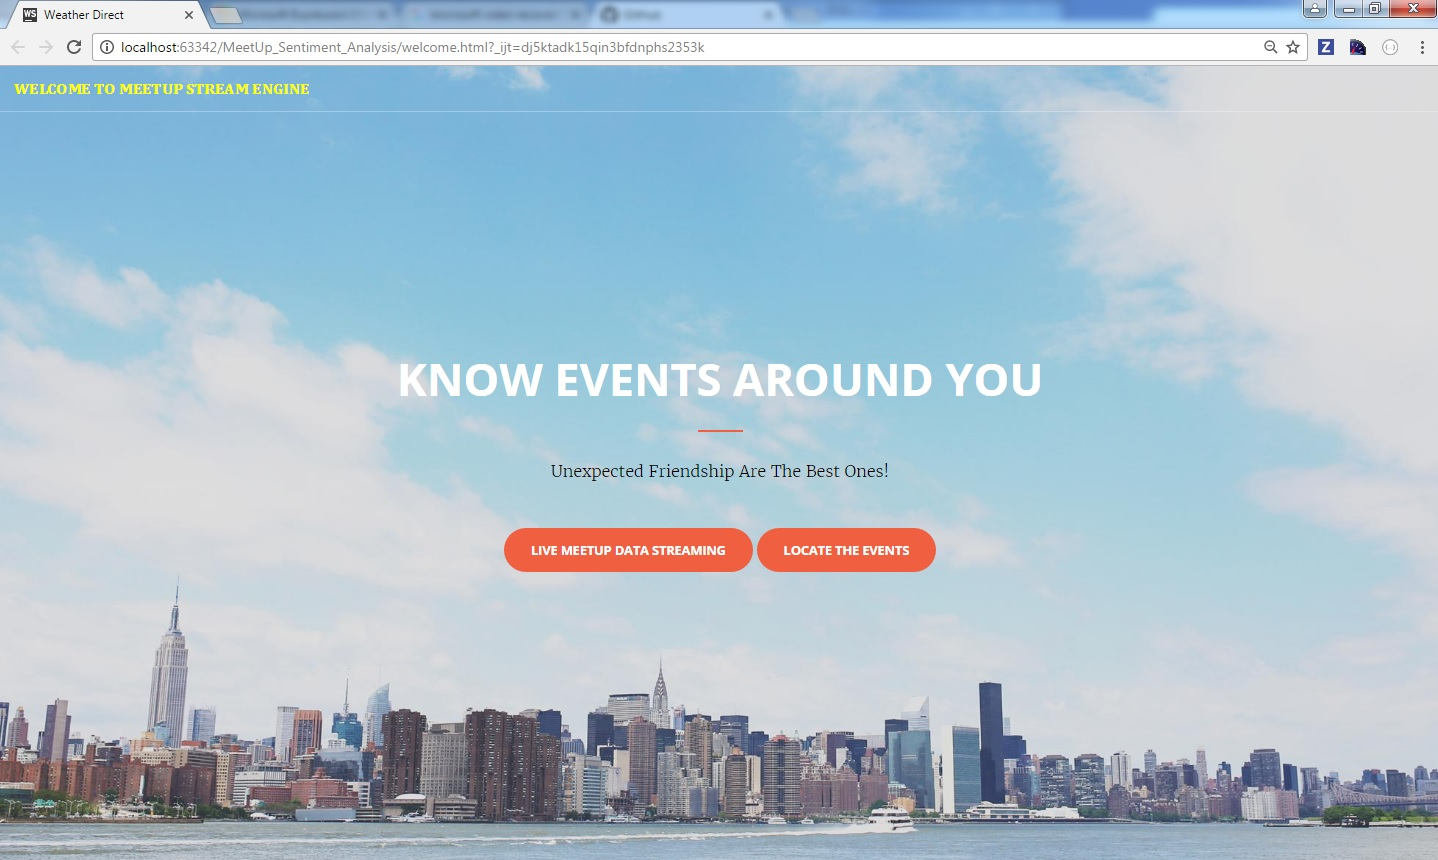
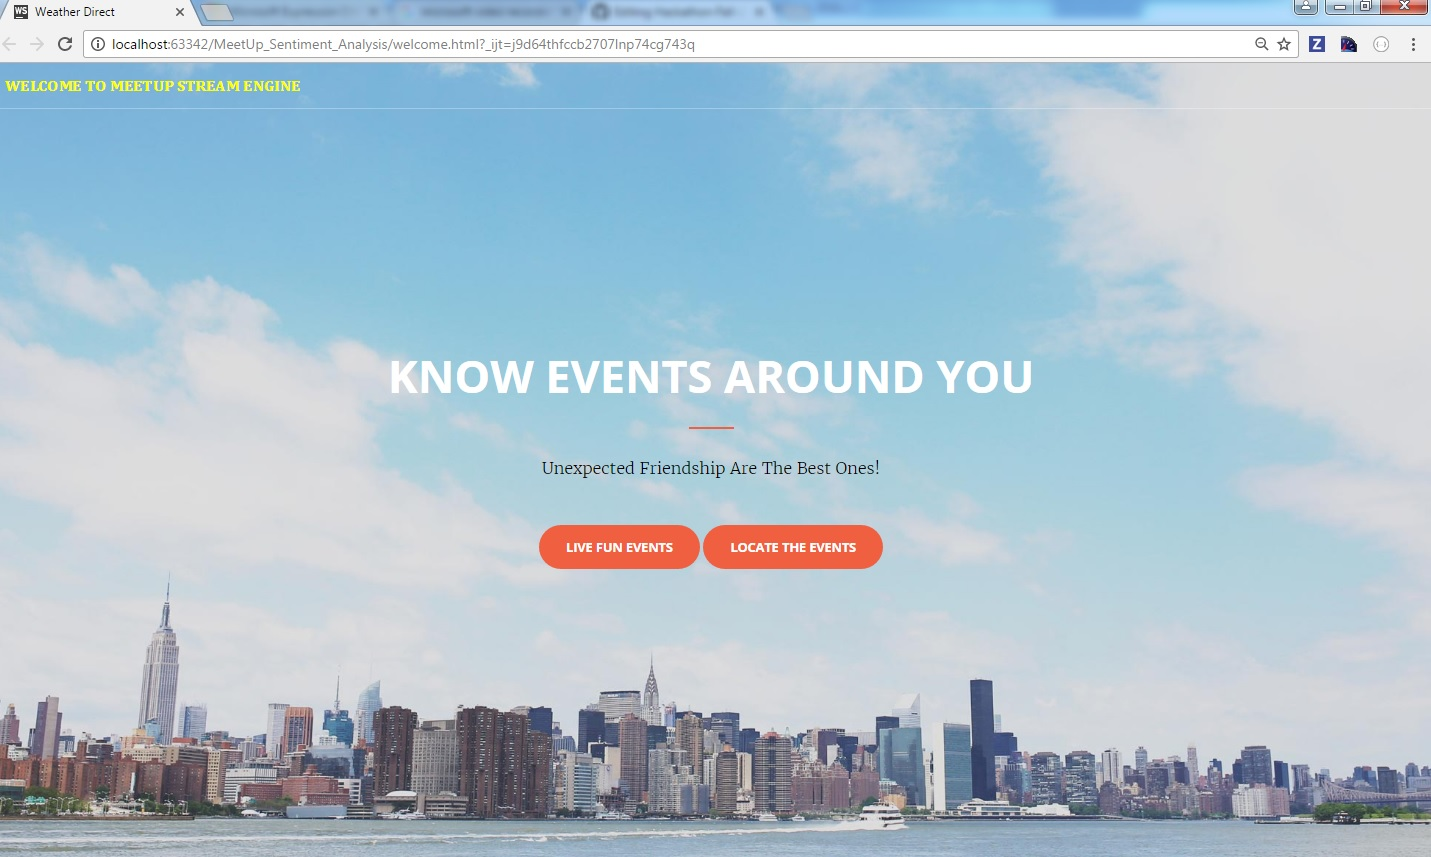
Images

diff --git a/Source/MeetUp_Sentiment_Analysis/app/variable.js b/Source/MeetUp_Sentiment_Analysis/app/variable.js
@@ -32,6 +32,8 @@ meetup.prototype = {
                 if (comments === 'undefined' || comments === 'null') {
                     comments = "neutral";
                 }
+
+                console.log("URL:" + url);
                 console.log("Comm Last:" + comments);
                 surl = "http://gateway-a.watsonplatform.net/calls/text/TextGetTextSentiment?apikey=d0e7bf68cdda677938e6c186eaf2b755ef737cd8&outputMode=json&text=" + comments;
             }
@@ -82,7 +84,7 @@ meetup.prototype = {
         for (i = 0; i < lower; i++) {
             highlight_tags += '<li>' + group_topics[i]['topic_name'] + '</li>';
         }
-        highlight_tags +='<li><b>Sentiment-Positive</b></li>';
+        highlight_tags +='<li style="color:#0044cc"><b><i>Sentiment-Positive</i></b></li>';
         return '<ul class="highlight_tags">' + highlight_tags + '</ul>';
     },
     //create city or topic list items

diff --git a/Source/MeetUp_Sentiment_Analysis/welcome.html b/Source/MeetUp_Sentiment_Analysis/welcome.html
@@ -47,7 +47,7 @@
             <h1 id="homeHeading">Know Events Around You</h1>
             <hr>
             <p style="color: black">Unexpected Friendship Are The Best Ones!</p>
-            <a href="index.html" class="btn btn-primary btn-xl page-scroll">Live Meetup Data Streaming</a>
+            <a href="index.html" class="btn btn-primary btn-xl page-scroll">Live Fun Events</a>
             <a href="Maps.html" class="btn btn-primary btn-xl page-scroll">Locate the Events</a>
         </div>
     </div>
